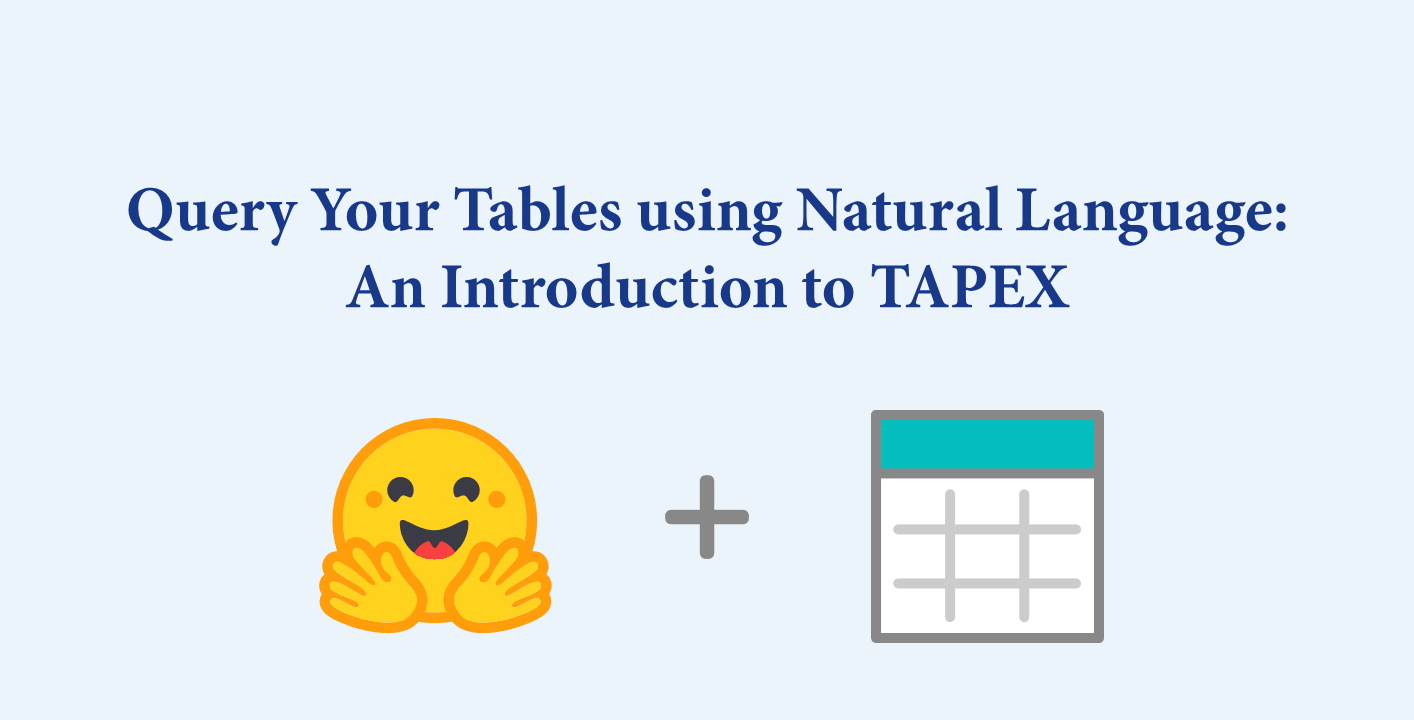
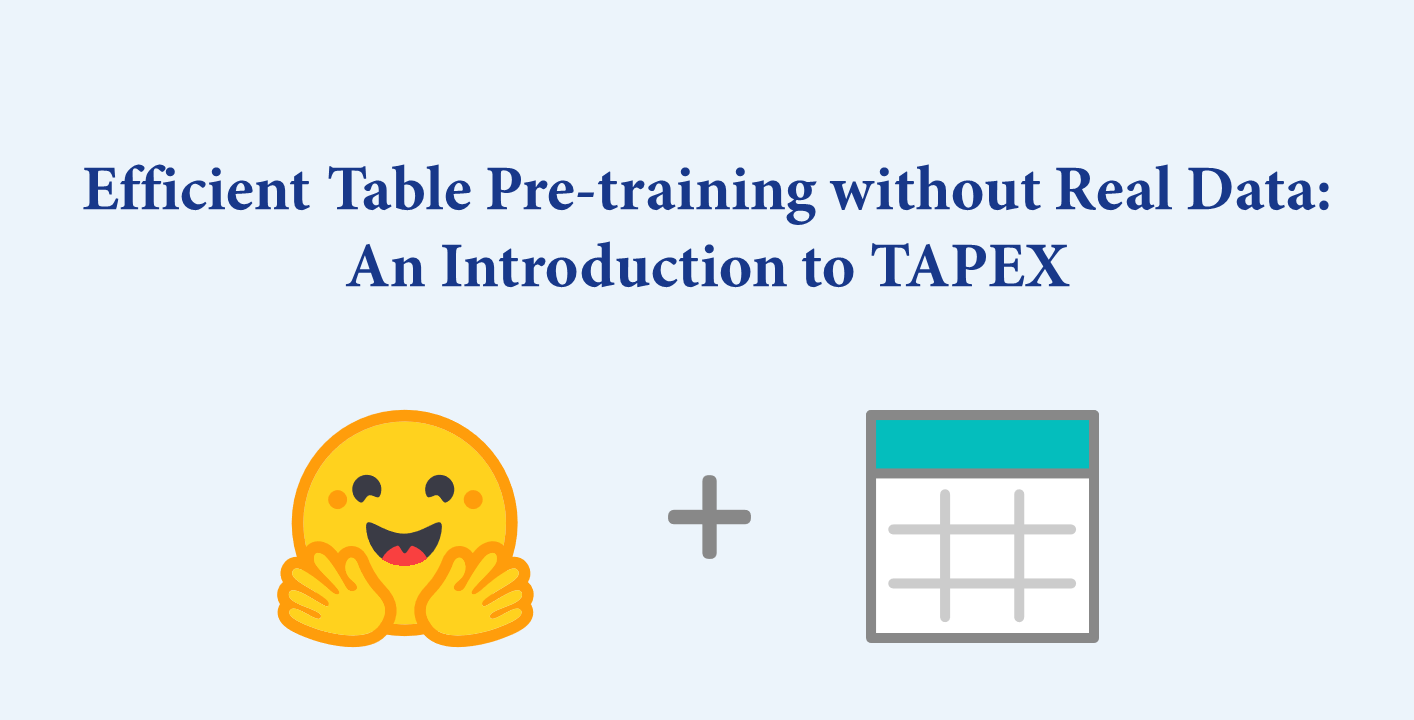
update tapex publish date and title

diff --git a/tapex.md b/tapex.md
@@ -1,15 +1,15 @@
 ---
-title: "Query Your Tables using Natural Language: An Introduction to TAPEX"
+title: "Efficient Table Pre-training without Real Data: An Introduction to TAPEX"
 thumbnail: /blog/assets/74_tapex/thumbnail.png
 
 ---
 
 <h1>
-    Query Your Tables using Natural Language: An Introduction to TAPEX
+    Efficient Table Pre-training without Real Data: An Introduction to TAPEX
 </h1>
 
 <div class="blog-metadata">
-    <small>Published May 13, 2022.</small>
+    <small>Published May 23, 2022.</small>
     <a target="_blank" class="btn no-underline text-sm mb-5 font-sans" href="https://github.com/huggingface/blog/blob/main/tapex.md">
         Update on GitHub
     </a>
